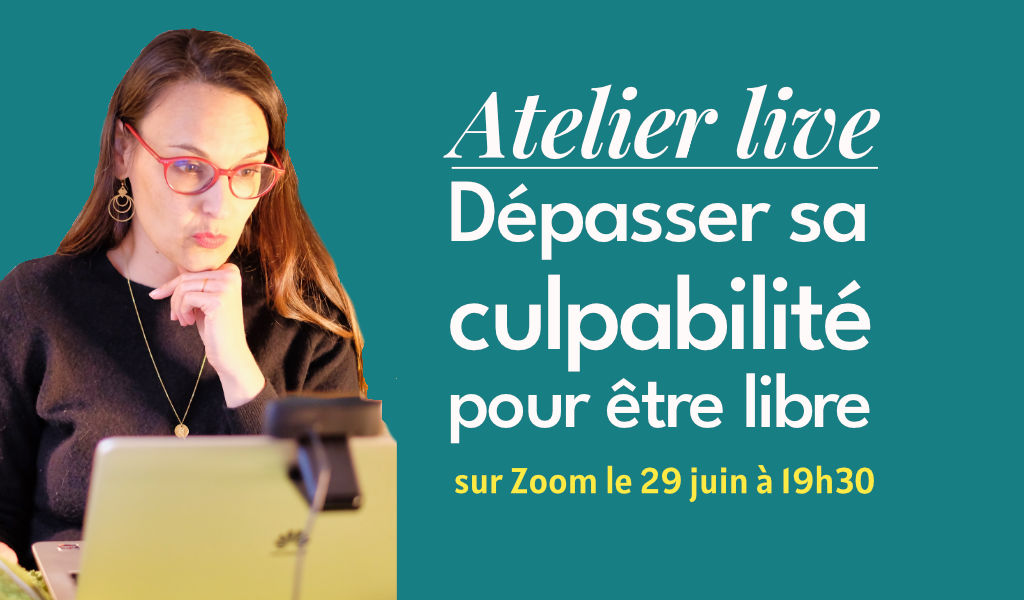
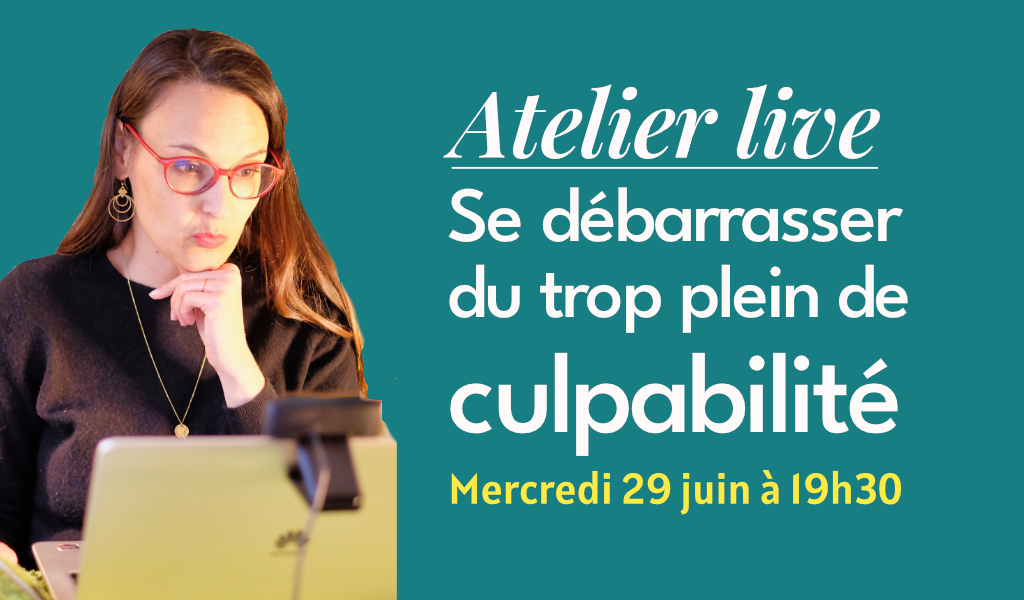
update vignette atelier

Changed region(s): [[0.4375, 0.3, 0.9062, 0.87]]

diff --git a/content/ateliers/atelier-live-depasser-culpabilite.md b/content/ateliers/atelier-live-depasser-culpabilite.md
@@ -53,7 +53,7 @@ Qu'est-ce qu'un atelier live ? C'est un atelier en direct, via zoom, qui sera en
 - Le paradoxe social de la culpabilité : une émotion "bien vue" et pourtant pesante
 - Apprivoiser le concept de Permissions en Analyse Transactionnelle (approche de thérapie)
 
-**Partie 2 : Découvrir son origine et ses conséquences concrêtes dans votre histoire personnelle**
+**Partie 2 : Découvrir son origine et ses conséquences concrètes dans votre histoire personnelle**
 
 - L'origine de votre culpabilité : d'où vient la votre et comment elle se manifeste ?
 - Analyse des conséquences de votre culpabilité dans votre vie personnelle
